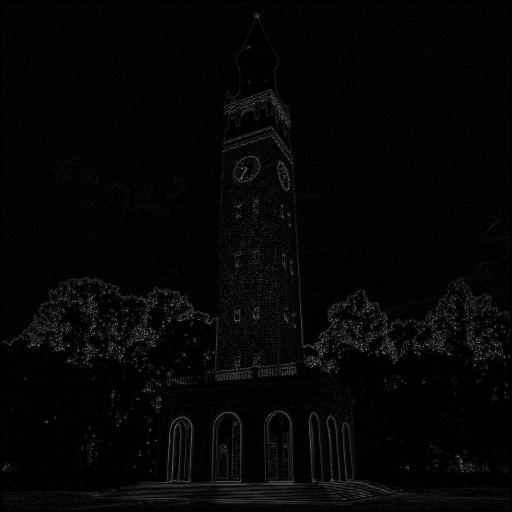
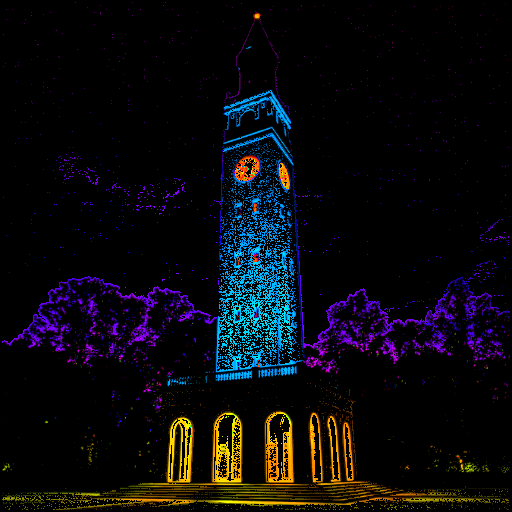
neon filter init

diff --git a/filters/src/artistic.py b/filters/src/artistic.py
@@ -1,18 +1,29 @@
 import numpy as np
 from skimage import color
+from skimage import filters
+from math import sqrt
 
 filtr = [[0.025, 0.0625, 0.5, 0.0625, 0.025],[0.0125, 0.025, 0.25, 0.025, 0.0125]]
 
-    # [[0.025, 0.0125],[0.0625, 0.025],[0.5, 0.025],[0.0625, 0.025],[0.025, 0.0125]]
+def bw_grad(im):
+    height, width, ch = im.shape
+    im = filters.gaussian(im, sigma=0.4)
+    imo = np.zeros((height, width, 3), dtype=np.uint8)
+    gra = np.zeros((height, width, 1), dtype=np.int64)
+    gra = color.rgb2gray(im)
 
-def grad(im):
-    im = color.rgb2gray(im)
-    height, width = im.shape
-    imo = np.zeros((height, width, 1), dtype=np.uint8)
+    thresh = 0.025
 
     for y in range(2, height-2):
         for x in range(2, width-2):
-            imo[y][x]=abs(np.dot(filtr[0], im[y, x-2:x+3]) + np.dot(filtr[1], im[y+1, x-2:x+3])-im[y,x])*255 + abs(np.sum(np.transpose(filtr)*im[y-2:y+3, x:x+2])-im[y, x])*255
+            gradX = np.dot(filtr[0], gra[y, x-2:x+3]) + np.dot(filtr[1], gra[y+1, x-2:x+3])-gra[y,x]
+            gradY = np.sum(np.transpose(filtr)*gra[y-2:y+3, x:x+2])-gra[y, x]
+            gradXY = sqrt(gradX*gradX + gradY*gradY) # is this better than abs(x + y)?
+            if(gradXY > thresh):
+                hsv = color.rgb2hsv(im[y,x])
+                hsv[1] = 1
+                hsv[2] = min(hsv[2]*1.5, 1)
+                imo[y,x] = 255*color.hsv2rgb(hsv)
             # imo[y][x] = ( np.uint8(sepia_r), np.uint8(sepia_g) , np.uint8(sepia_b) )
             
     return imo

diff --git a/filters/run.py b/filters/run.py
@@ -3,6 +3,7 @@ import multiprocessing
 from skimage import io
 import numpy as np
 from skimage import img_as_ubyte
+import os
 
 from src import grayscale as gra
 from src import sepia as sep
@@ -41,12 +42,20 @@ def balance():
 
 
 def artistic():
-    ims = ['belltower.png', 'venice1.jpg', 'swirl.png']
+    ims = ['tree.png', 'belltower.png', 'venice1.jpg', 'swirl.png']
 
     for f in ims:
         im = io.imread(INPUT_ROOT_DIR + f)
-        io.imsave(OUTPUT_ROOT_DIR + "exercise4/" + f, img_as_ubyte(art.grad(im)))
+        io.imsave(OUTPUT_ROOT_DIR + "exercise4/" + f, img_as_ubyte(art.bw_grad(im)))
 
+
+def clean():
+    for i in range(1, 4):
+        os.system('rm data/out/exercise1/method'+str(i)+'/*')
+    for i in range(2, 5):
+        os.system('rm data/out/exercise'+str(i)+'/*')
+
+clean()
 
 if __name__ == '__main__':
     functions = [gray, sepia, balance, artistic]
